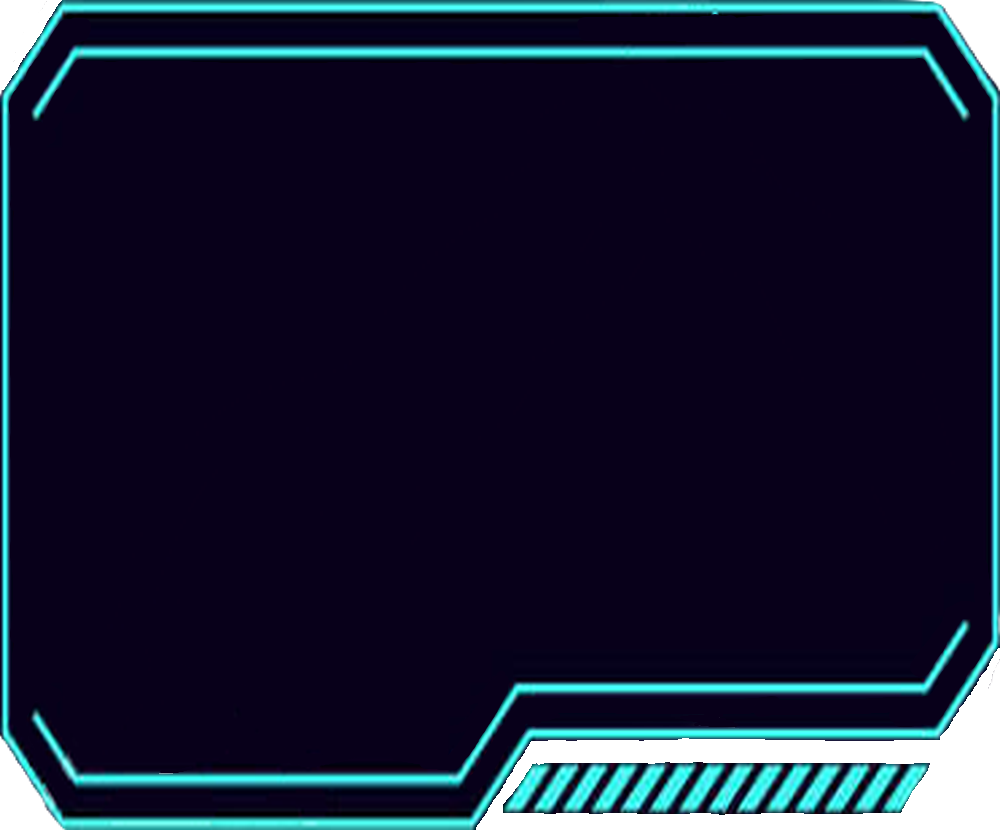
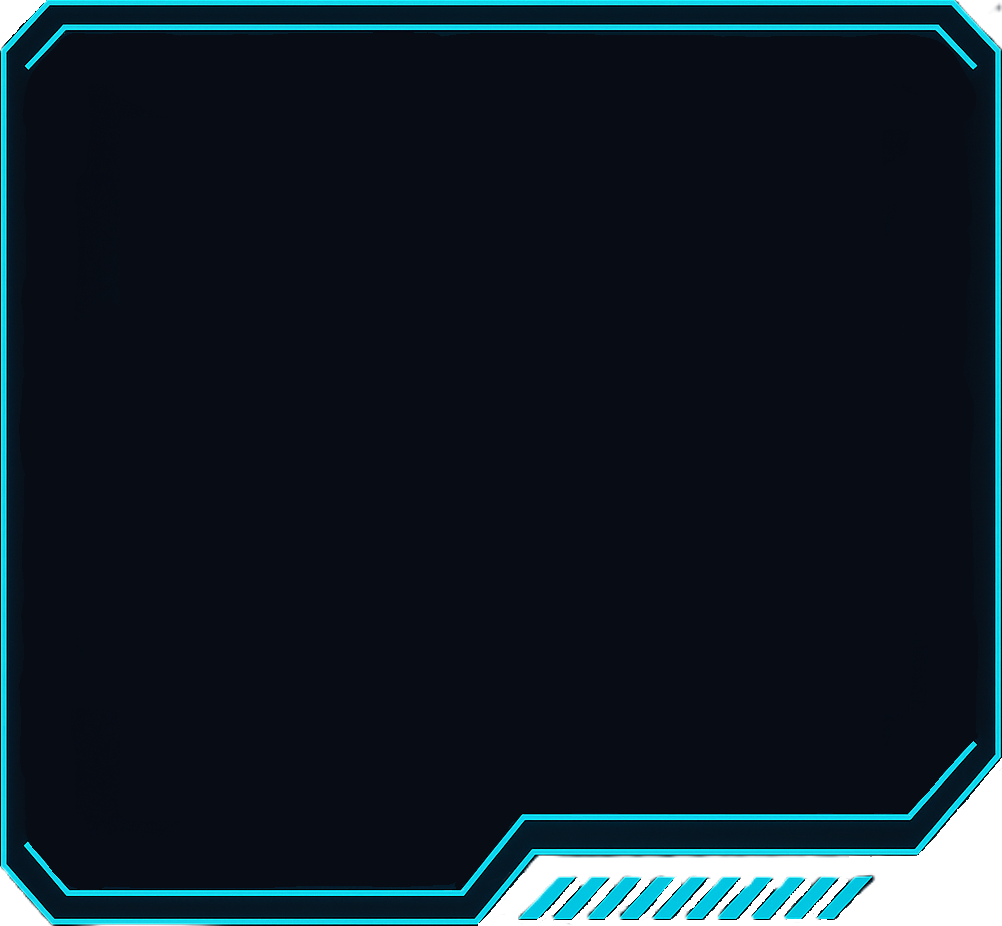
각 ui 화면 좌표에 알맞게 출력 완료

Changed region(s): [[0.0, 0.0, 1.0, 1.0]]

diff --git a/upgrade_mode.py b/upgrade_mode.py
@@ -10,13 +10,15 @@ upgrade = None
 def init():
     global upgrade
     global ui_spaceship, ui_heart, ui_atk, ui_def, ui_line
-
+    global ui_inform, ui_info
     upgrade = load_image('images/upgrade_mode.png')
     ui_spaceship = load_image('UI/ui_spaceship.png')
     ui_heart = load_image('UI/ui_heart.png')
     ui_atk = load_image('UI/ui_atk.png')
     ui_def = load_image('UI/ui_def.png')
     ui_line = load_image('UI/ui_line.png')
+    ui_inform = load_image('UI/upgrade_inform.png')
+    ui_info = load_image('UI/upgrade_info.png')
 
 def finish():
     pass
@@ -25,13 +27,28 @@ def update():
     pass
 
 def draw():
+    upgrade.draw(600, 500, 1100, 926)    # 중앙에 패널 띄우기
 
-    upgrade.draw(600, 500)      # 배경 그리기
-    # ui_spaceship.draw(450, 600)
-    # ui_heart.draw(350, 480)
-    # ui_atk.draw(550, 480)
-    # ui_def.draw(450, 360)
+    # =============================
+    # 아이콘 좌표 (1000x920 기준)
+    # =============================
+    ship_x, ship_y = 350, 500
+    def_x, def_y = 350, 660
+    heart_x, heart_y = 230, 420
+    atk_x, atk_y = 470, 420
+
+
+    # =============================
+    # 아이콘 그리기
+    # =============================
+    ui_spaceship.draw(ship_x, ship_y, 160, 160)
+    ui_heart.draw(heart_x, heart_y, 160, 160)
+    ui_atk.draw(atk_x, atk_y, 160, 160)
+    ui_def.draw(def_x, def_y, 160, 160)
+    ui_inform.draw(850, 650, 450, 500)
+    ui_info.draw(850, 775, 165, 165)
     update_canvas()
+
 
 def handle_events():
     event_list = get_events()
@@ -41,7 +58,7 @@ def handle_events():
 
         elif event.type == SDL_KEYDOWN and event.key == SDLK_ESCAPE:
             if stage_mode.spaceship and stage_mode.stage_x!= None:
-                print("디버깅")
+                #print("디버깅")
                 ship = stage_mode.spaceship
                 ship.x = stage_mode.stage_x
                 ship.y = stage_mode.stage_y

diff --git a/stage_button.py b/stage_button.py
@@ -82,7 +82,7 @@ class UpgradeButton:
         alpha = (math.sin(get_time() * 3) + 1) / 2  # 0~1 사이 변화
         self.image.opacify(0.5 + 0.5 * alpha)  # 밝기 깜빡임
         self.image.draw(self.x, self.y, self.w, self.h)
-        draw_rectangle(*self.get_bb())
+        #draw_rectangle(*self.get_bb())
 
     def update(self):
         target_scale = 1.2 if self.is_hover else 1.0  # hover 시 20% 확대
